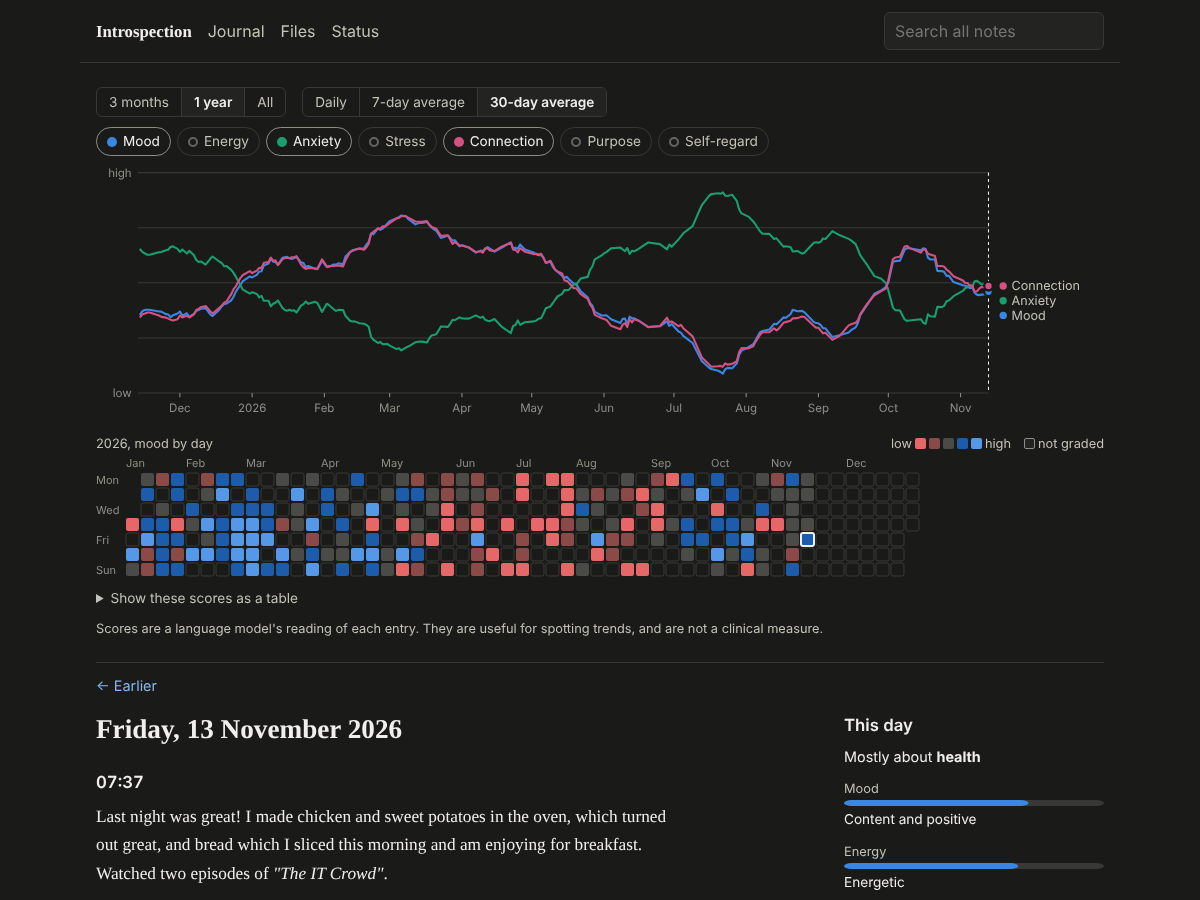
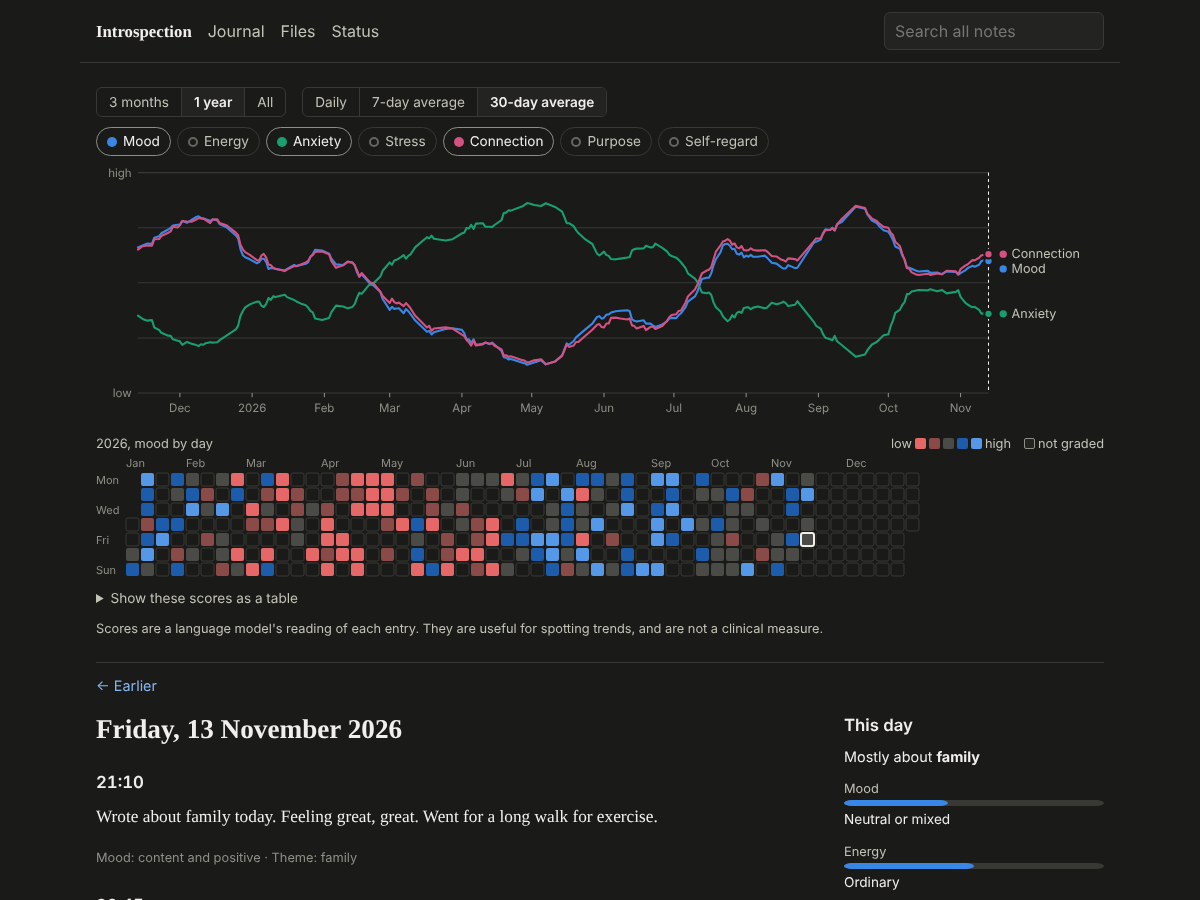
Replace personal details with generic stand-ins
Test fixtures, the default exclude list, examples and docs now use
made-up file names and text. The module path no longer carries a
user name.

Claude-Session: https://claude.ai/code/session_01DRGHxyuAAGWbuN6T3iYMiR

diff --git a/internal/web/templates/status.html b/internal/web/templates/status.html
@@ -30,7 +30,7 @@
   </table>
   {{end}}
   {{else}}
-  <p>Grading is off. Set <code>KEV_URL</code> to the address of the Kev server on the Mac mini, for example <code>http://mac-mini:8009</code>, and restart.</p>
+  <p>Grading is off. Set <code>KEV_URL</code> to the address of the Kev server, for example <code>http://192.168.1.50:8009</code>, and restart.</p>
   {{end}}
 </section>
 {{end}}

diff --git a/internal/web/web_test.go b/internal/web/web_test.go
@@ -11,10 +11,10 @@ import (
 	"testing"
 	"time"
 
-	"github.com/ryansghost/journal-introspection/internal/config"
-	"github.com/ryansghost/journal-introspection/internal/grader"
-	"github.com/ryansghost/journal-introspection/internal/indexer"
-	"github.com/ryansghost/journal-introspection/internal/store"
+	"journal-introspection/internal/config"
+	"journal-introspection/internal/grader"
+	"journal-introspection/internal/indexer"
+	"journal-introspection/internal/store"
 )
 
 const testSecret = "JBSWY3DPEHPK3PXP"
@@ -30,7 +30,7 @@ func newSite(t *testing.T, authDisabled bool) (*httptest.Server, *http.Client) {
 	if err != nil {
 		t.Fatal(err)
 	}
-	cfg := config.Config{OrgRoot: root, Exclude: []string{"crypto.org"}, PasswordHash: HashPassword("correct horse"),
+	cfg := config.Config{OrgRoot: root, Exclude: []string{"secrets.org"}, PasswordHash: HashPassword("correct horse"),
 		TOTPSecret: testSecret, AuthDisabled: authDisabled, ScanInterval: time.Minute}
 	ix := indexer.New(db, root, cfg.Exclude)
 	if _, err := ix.Scan(context.Background()); err != nil {
@@ -89,7 +89,7 @@ func TestPasswordAndTOTP(t *testing.T) {
 
 func TestLoginRequired(t *testing.T) {
 	ts, c := newSite(t, false)
-	for _, p := range []string{"/", "/journal/2026-11-13", "/files/", "/files/life.org", "/search?q=a", "/status"} {
+	for _, p := range []string{"/", "/journal/2026-11-13", "/files/", "/files/notes.org", "/search?q=a", "/status"} {
 		if code, _ := get(t, c, ts.URL+p); code != http.StatusSeeOther {
 			t.Errorf("%s without a session: want 303, got %d", p, code)
 		}
@@ -128,7 +128,7 @@ func TestLoginRequired(t *testing.T) {
 	if got := post("correct horse", code, nil); got != http.StatusUnauthorized {
 		t.Errorf("replayed code: want 401, got %d", got)
 	}
-	if code, body := get(t, c, ts.URL+"/journal/2026-11-13"); code != 200 || !strings.Contains(body, "chicken and sweet potatoes") {
+	if code, body := get(t, c, ts.URL+"/journal/2026-11-13"); code != 200 || !strings.Contains(body, "soup last night and baked bread") {
 		t.Errorf("journal after login: %d", code)
 	}
 }
@@ -167,25 +167,25 @@ func TestPages(t *testing.T) {
 	check("/journal/2026-11-12", 200, "Slept badly")
 	check("/journal/2026-11-11", 404)
 	check("/journal/garbage", 404)
-	check("/files/", 200, "journal/", "projects/", "quicknote.txt")
-	check("/files/projects/introspection.org", 200, "Mac mini", "<table>")
-	check("/files/quicknote.txt", 200, "plain text scratch")
+	check("/files/", 200, "journal/", "projects/", "notes.txt")
+	check("/files/projects/garden.org", 200, "Raised bed", "<table>")
+	check("/files/notes.txt", 200, "plain text scratch")
 	// Links between org files point inside the app; links to excluded files do not.
-	check("/files/projects/introspection.org", 200, `href="/files/quicknote.txt"`, `href="/files/roam/20240101120000-zettel.org"`)
-	if _, body := get(t, c, ts.URL+"/files/projects/introspection.org"); strings.Contains(body, `href="/files/crypto.org"`) {
+	check("/files/projects/garden.org", 200, `href="/files/notes.txt"`, `href="/files/roam/20240101120000-plaintext.org"`)
+	if _, body := get(t, c, ts.URL+"/files/projects/garden.org"); strings.Contains(body, `href="/files/secrets.org"`) {
 		t.Error("link to an excluded file was resolved")
 	}
-	check("/search?q=zettelkasten", 200, "<mark>zettelkasten</mark>")
+	check("/search?q=outlive", 200, "<mark>outlive</mark>")
 	check("/search?q=%22+OR+NEAR(", 200) // FTS syntax in the query must not break it
 	check("/status", 200, "3 journal")
 
 	// Excluded files and anything outside the root do not exist.
 	_, listing := get(t, c, ts.URL+"/files/")
-	if strings.Contains(listing, "crypto") {
+	if strings.Contains(listing, "secrets") {
 		t.Error("excluded file is listed")
 	}
-	check("/files/crypto.org", 404)
-	check("/search?q=seed", 200, "Nothing matches")
+	check("/files/secrets.org", 404)
+	check("/search?q=stands", 200, "Nothing matches")
 	check("/files/..%2Foutside.txt", 404)
 	check("/files/%2e%2e/outside.txt", 404)
 

diff --git a/internal/indexer/indexer_test.go b/internal/indexer/indexer_test.go
@@ -7,7 +7,7 @@ import (
 	"testing"
 	"time"
 
-	"github.com/ryansghost/journal-introspection/internal/store"
+	"journal-introspection/internal/store"
 )
 
 func TestSplitJournal(t *testing.T) {
@@ -48,10 +48,10 @@ func TestSplitJournal(t *testing.T) {
 }
 
 func TestExcluded(t *testing.T) {
-	pats := []string{"crypto.org", "finance*.org", "invoices/**"}
+	pats := []string{"secrets.org", "secret*.org", "private/**"}
 	for rel, want := range map[string]bool{
-		"crypto.org": true, "finance-learning.org": true, "invoices/2026/a.org": true,
-		"invoices": true, "projects/finance.org": true, "life.org": false, "journal/20260101.org": false,
+		"secrets.org": true, "secret-plans.org": true, "private/2026/a.org": true,
+		"private": true, "projects/secret-recipe.org": true, "notes.org": false, "journal/20260101.org": false,
 	} {
 		if got := Excluded(pats, rel); got != want {
 			t.Errorf("Excluded(%q) = %v, want %v", rel, got, want)
@@ -82,7 +82,7 @@ func TestScanChangeDetection(t *testing.T) {
 		t.Fatal(err)
 	}
 	defer db.Close()
-	ix := New(db, root, []string{"crypto.org"})
+	ix := New(db, root, []string{"secrets.org"})
 	ctx := context.Background()
 
 	st, err := ix.Scan(ctx)
@@ -92,7 +92,7 @@ func TestScanChangeDetection(t *testing.T) {
 	if st.Changed != 7 {
 		t.Errorf("first scan: want 7 files read, got %d", st.Changed)
 	}
-	if n := count(t, db, `SELECT COUNT(*) FROM files WHERE path='crypto.org'`); n != 0 {
+	if n := count(t, db, `SELECT COUNT(*) FROM files WHERE path='secrets.org'`); n != 0 {
 		t.Error("excluded file was indexed")
 	}
 	if n := count(t, db, `SELECT COUNT(*) FROM entries`); n != 4 {
@@ -101,7 +101,7 @@ func TestScanChangeDetection(t *testing.T) {
 	if n := count(t, db, `SELECT COUNT(*) FROM files WHERE kind='journal'`); n != 3 {
 		t.Errorf("want 3 journal files (not-a-day.org is a note), got %d", n)
 	}
-	if n := count(t, db, `SELECT COUNT(*) FROM search WHERE search MATCH '"zettelkasten"'`); n != 1 {
+	if n := count(t, db, `SELECT COUNT(*) FROM search WHERE search MATCH '"outlive"'`); n != 1 {
 		t.Errorf("full-text search: got %d hits", n)
 	}
 

diff --git a/internal/config/config_test.go b/internal/config/config_test.go
@@ -11,11 +11,11 @@ func TestExcludeFromEnv(t *testing.T) {
 	if err != nil {
 		t.Fatal(err)
 	}
-	if !slices.Contains(c.Exclude, "crypto.org") || !slices.Contains(c.Exclude, "invoices/**") {
+	if !slices.Contains(c.Exclude, "private/**") || !slices.Contains(c.Exclude, "secret*.org") {
 		t.Errorf("default exclude list: %v", c.Exclude)
 	}
-	t.Setenv("EXCLUDE", " people.org , scratch/** ,")
-	if c, _ = Load(); !slices.Equal(c.Exclude, []string{"people.org", "scratch/**"}) {
+	t.Setenv("EXCLUDE", " diary-private.org , drafts/** ,")
+	if c, _ = Load(); !slices.Equal(c.Exclude, []string{"diary-private.org", "drafts/**"}) {
 		t.Errorf("EXCLUDE replaces the list: %v", c.Exclude)
 	}
 	t.Setenv("EXCLUDE", "")

diff --git a/cmd/introspect/main.go b/cmd/introspect/main.go
@@ -16,11 +16,11 @@ import (
 	"syscall"
 	"time"
 
-	"github.com/ryansghost/journal-introspection/internal/config"
-	"github.com/ryansghost/journal-introspection/internal/grader"
-	"github.com/ryansghost/journal-introspection/internal/indexer"
-	"github.com/ryansghost/journal-introspection/internal/store"
-	"github.com/ryansghost/journal-introspection/internal/web"
+	"journal-introspection/internal/config"
+	"journal-introspection/internal/grader"
+	"journal-introspection/internal/indexer"
+	"journal-introspection/internal/store"
+	"journal-introspection/internal/web"
 )
 
 func main() {

diff --git a/internal/grader/grader.go b/internal/grader/grader.go
@@ -11,7 +11,7 @@ import (
 	"sync"
 	"time"
 
-	"github.com/ryansghost/journal-introspection/internal/store"
+	"journal-introspection/internal/store"
 )
 
 type Status struct {
@@ -71,7 +71,7 @@ func (g *Grader) Status(ctx context.Context) Status {
 }
 
 // Run grades entries one at a time, newest first, until ctx is cancelled.
-// One request at a time keeps the Mac mini responsive.
+// One request at a time keeps the model server responsive.
 func (g *Grader) Run(ctx context.Context) {
 	if g.kev == nil {
 		slog.Info("grading disabled: KEV_URL is not set")

diff --git a/internal/web/server.go b/internal/web/server.go
@@ -10,10 +10,10 @@ import (
 	"net/http"
 	"os"
 
-	"github.com/ryansghost/journal-introspection/internal/config"
-	"github.com/ryansghost/journal-introspection/internal/grader"
-	"github.com/ryansghost/journal-introspection/internal/indexer"
-	"github.com/ryansghost/journal-introspection/internal/store"
+	"journal-introspection/internal/config"
+	"journal-introspection/internal/grader"
+	"journal-introspection/internal/indexer"
+	"journal-introspection/internal/store"
 )
 
 //go:embed templates/*.html

diff --git a/internal/config/config.go b/internal/config/config.go
@@ -29,7 +29,7 @@ type Config struct {
 
 // DefaultExclude keeps the most sensitive files out of the index entirely.
 // Setting EXCLUDE replaces the whole list; setting it to "" excludes nothing.
-const DefaultExclude = "identities.org,crypto.org,finance*.org,invoices/**,bib/**,data/**,tmp/**"
+const DefaultExclude = "private/**,secret*.org,*.gpg"
 
 func env(key, def string) string {
 	if v, ok := os.LookupEnv(key); ok {

diff --git a/internal/web/pages.go b/internal/web/pages.go
@@ -14,8 +14,8 @@ import (
 	"strings"
 	"time"
 
-	"github.com/ryansghost/journal-introspection/internal/indexer"
-	"github.com/ryansghost/journal-introspection/internal/orgrender"
+	"journal-introspection/internal/indexer"
+	"journal-introspection/internal/orgrender"
 )
 
 type crumb struct{ Name, URL string }

diff --git a/internal/web/chart.go b/internal/web/chart.go
@@ -9,7 +9,7 @@ import (
 	"strings"
 	"time"
 
-	"github.com/ryansghost/journal-introspection/internal/grader"
+	"journal-introspection/internal/grader"
 )
 
 // The chart is server-rendered SVG. Colours come from CSS classes (s1..s8 for

diff --git a/internal/indexer/indexer.go b/internal/indexer/indexer.go
@@ -18,7 +18,7 @@ import (
 	"sync"
 	"time"
 
-	"github.com/ryansghost/journal-introspection/internal/store"
+	"journal-introspection/internal/store"
 )
 
 // Text files worth indexing; everything else (PDFs, images) is ignored.

diff --git a/internal/grader/grader_test.go b/internal/grader/grader_test.go
@@ -9,7 +9,7 @@ import (
 	"sync/atomic"
 	"testing"
 
-	"github.com/ryansghost/journal-introspection/internal/store"
+	"journal-introspection/internal/store"
 )
 
 // kevStub answers in the shape shown in the Kev README.
